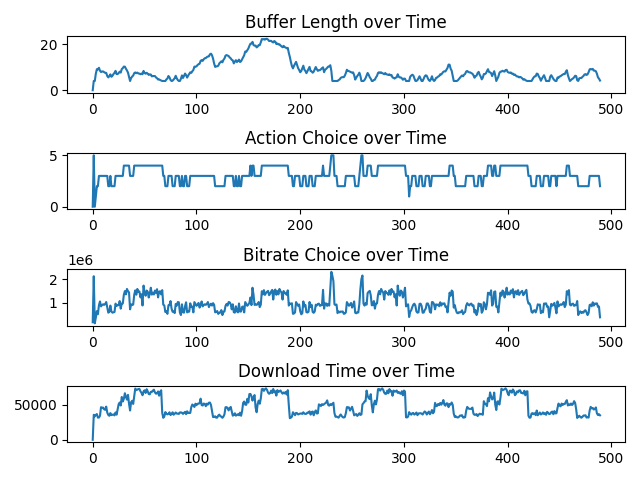
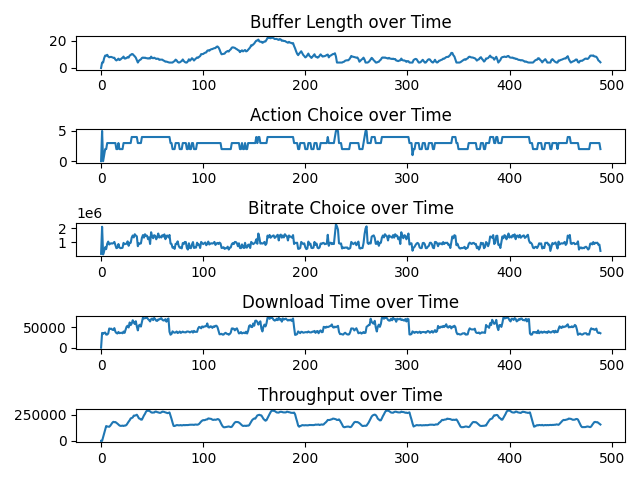
added throughput graph

diff --git a/evaluate_model.py b/evaluate_model.py
@@ -25,11 +25,12 @@ def evaluate_agent(agent):
         done = False
         t = 0
         rews = []
-        metrics = {"action": [], "buffer_length": [], "action_bitrate": [], "download_time": []}
+        metrics = {"action": [], "buffer_length": [], "action_bitrate": [], "download_time": [], "throughput": []}
         while not done:
             # Choose an action through random policy
             act = agent.predict(obs[np.newaxis, :]).item()
-            metrics["download_time"].append(sum(obs[4:9] / 5)) # avg download time
+            metrics["throughput"].append(sum(obs[0:4]) / 5) # avg throughput
+            metrics["download_time"].append(sum(obs[4:9]) / 5) # avg download time
             metrics['buffer_length'].append(obs[10])
             metrics['action'].append(act)
             metrics['action_bitrate'].append(obs[13+act])
@@ -50,27 +51,34 @@ def evaluate_agent(agent):
 
 def plot_trajectory(trajectory, agent_name):
     buffer_history = trajectory["buffer_length"]
-    plt.subplot(411)
+    plt.subplot(511)
     plt.plot(buffer_history)
     plt.title("Buffer Length over Time")
 
     action_history = trajectory["action"]
-    plt.subplot(412)
+    plt.subplot(512)
     plt.plot(action_history)
     plt.title("Action Choice over Time")
 
     action_bitrate_history = trajectory["action_bitrate"]
-    plt.subplot(413)
+    plt.subplot(513)
     plt.plot(action_bitrate_history)
     plt.title("Bitrate Choice over Time")
 
+
     download_history = trajectory["download_time"]
-    plt.subplot(414)
+    plt.subplot(514)
     plt.plot(download_history)
     plt.title("Download Time over Time")
 
+    throughput_history = trajectory["throughput"]
+    plt.subplot(515)
+    plt.plot(throughput_history)
+    plt.title("Throughput over Time")
+
     plt.tight_layout(pad=1.0)
     plt.savefig("output/latest_trajectory_{}.png".format(agent_name))
+    plt.close()
 
 
 def average_trajectory(trajectories, field):
@@ -83,6 +91,7 @@ def average_trajectory(trajectories, field):
         avg[i] /= len(trajectories)
     
     return avg
+
 def plot_trajectory_overlay(cql_trajectories, bcq_trajectories):
     cql_avg_buffer_length = average_trajectory(cql_trajectories, "buffer_length")
     bcq_avg_buffer_length = average_trajectory(bcq_trajectories, "buffer_length")
@@ -93,20 +102,28 @@ def plot_trajectory_overlay(cql_trajectories, bcq_trajectories):
     cql_avg_download_time = average_trajectory(cql_trajectories, "download_time")
     bcq_avg_download_time = average_trajectory(bcq_trajectories, "download_time")
 
-    plt.subplot(311)
+    cql_avg_throughput = average_trajectory(cql_trajectories, "throughput")
+    bcq_avg_throughput = average_trajectory(bcq_trajectories, "throughput")
+
+    plt.subplot(411)
     plt.plot(cql_avg_buffer_length, label="cql")
     plt.plot(bcq_avg_buffer_length, label="bcq")
-    plt.title("Buffer Length over Time")
+    plt.title("Average Buffer Length over Time")
 
-    plt.subplot(312)
+    plt.subplot(412)
     plt.plot(cql_avg_action_bitrate, label="cql")
     plt.plot(bcq_avg_action_bitrate, label="bcq")
-    plt.title("Bitrate Choice over Time")
+    plt.title("Average Bitrate Choice over Time")
 
-    plt.subplot(313)
+    plt.subplot(413)
     plt.plot(cql_avg_download_time, label="cql")
     plt.plot(bcq_avg_download_time, label="bcq")
-    plt.title("Download Time over Time")
+    plt.title("Average Download Time over Time")
+
+    plt.subplot(414)
+    plt.plot(cql_avg_throughput, label="cql")
+    plt.plot(bcq_avg_throughput, label="bcq")
+    plt.plot("Average Throughput over Time")
 
     plt.tight_layout(pad=1.0)
     plt.legend()
@@ -161,7 +178,9 @@ if __name__ == "__main__":
 
 
     plot_trajectory_overlay(cql_trajectories, bcq_trajectories)
-    # plot_trajectory(cql_trajectories[0], "cql")
+    plot_trajectory(cql_trajectories[0], "cql")
+    plot_trajectory(bcq_trajectories[0], "bcq")
+
     # plot_avg_trajectory_metrics(cql_trajectories, "cql")
 
 
